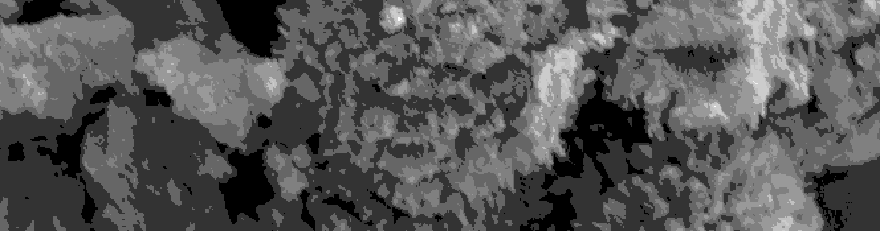
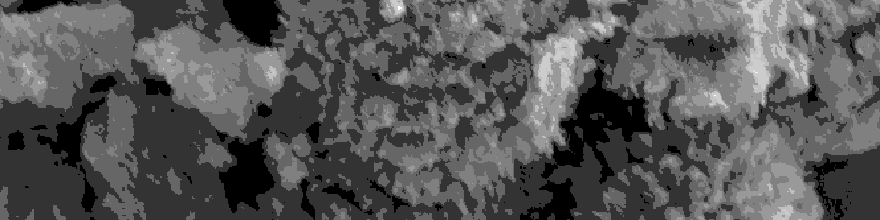
Website update: 2022-05-12T04:04:14

diff --git a/user/afr10.html b/user/afr10.html
@@ -81,7 +81,7 @@
 <p><a href="/research/film-drying-cracking"><img src="/images/film-drying-cracking-narrow.png" alt="A cracked film" /></a></p>
 
 <h4 id="blood-drying"><a href="/research/blood-drying">Blood drying</a></h4>
-<p><a href="/research/blood-drying"><img src="/images/blood-drying.png" alt="Two dry and cracking blood cells, from a diabetic and a non-diabetic patient" /></a></p>
+<p><a href="/research/blood-drying"><img src="/images/blood-drying-narrow.png" alt="Two dry and cracking blood cells, from a diabetic and a non-diabetic patient" /></a></p>
 
 <h4 id="friction-modification"><a href="/research/friction-modification">Friction modification</a></h4>
 <p><a href="/research/friction-modification"><img src="/images/engine-diagram-narrow.png" alt="Photo of an engine" /></a></p>

diff --git a/people.html b/people.html
@@ -321,7 +321,7 @@
             <a href="/user/jwp50">John Parry</a>
         </div>
         <div class="role" style="text-align:center">
-            Senior IT Technician
+            Computer Officer
         </div>
     </div>
     

diff --git a/user/jwp50.html b/user/jwp50.html
@@ -61,7 +61,7 @@
 	  <div class="fstaff">
 	    <div>
 	      <h1> John Parry </h1>
-	      <b> Senior IT Technician</b> <br>
+	      <b> Computer Officer</b> <br>
 		  BPI <br>
 		  
 	    </div>
